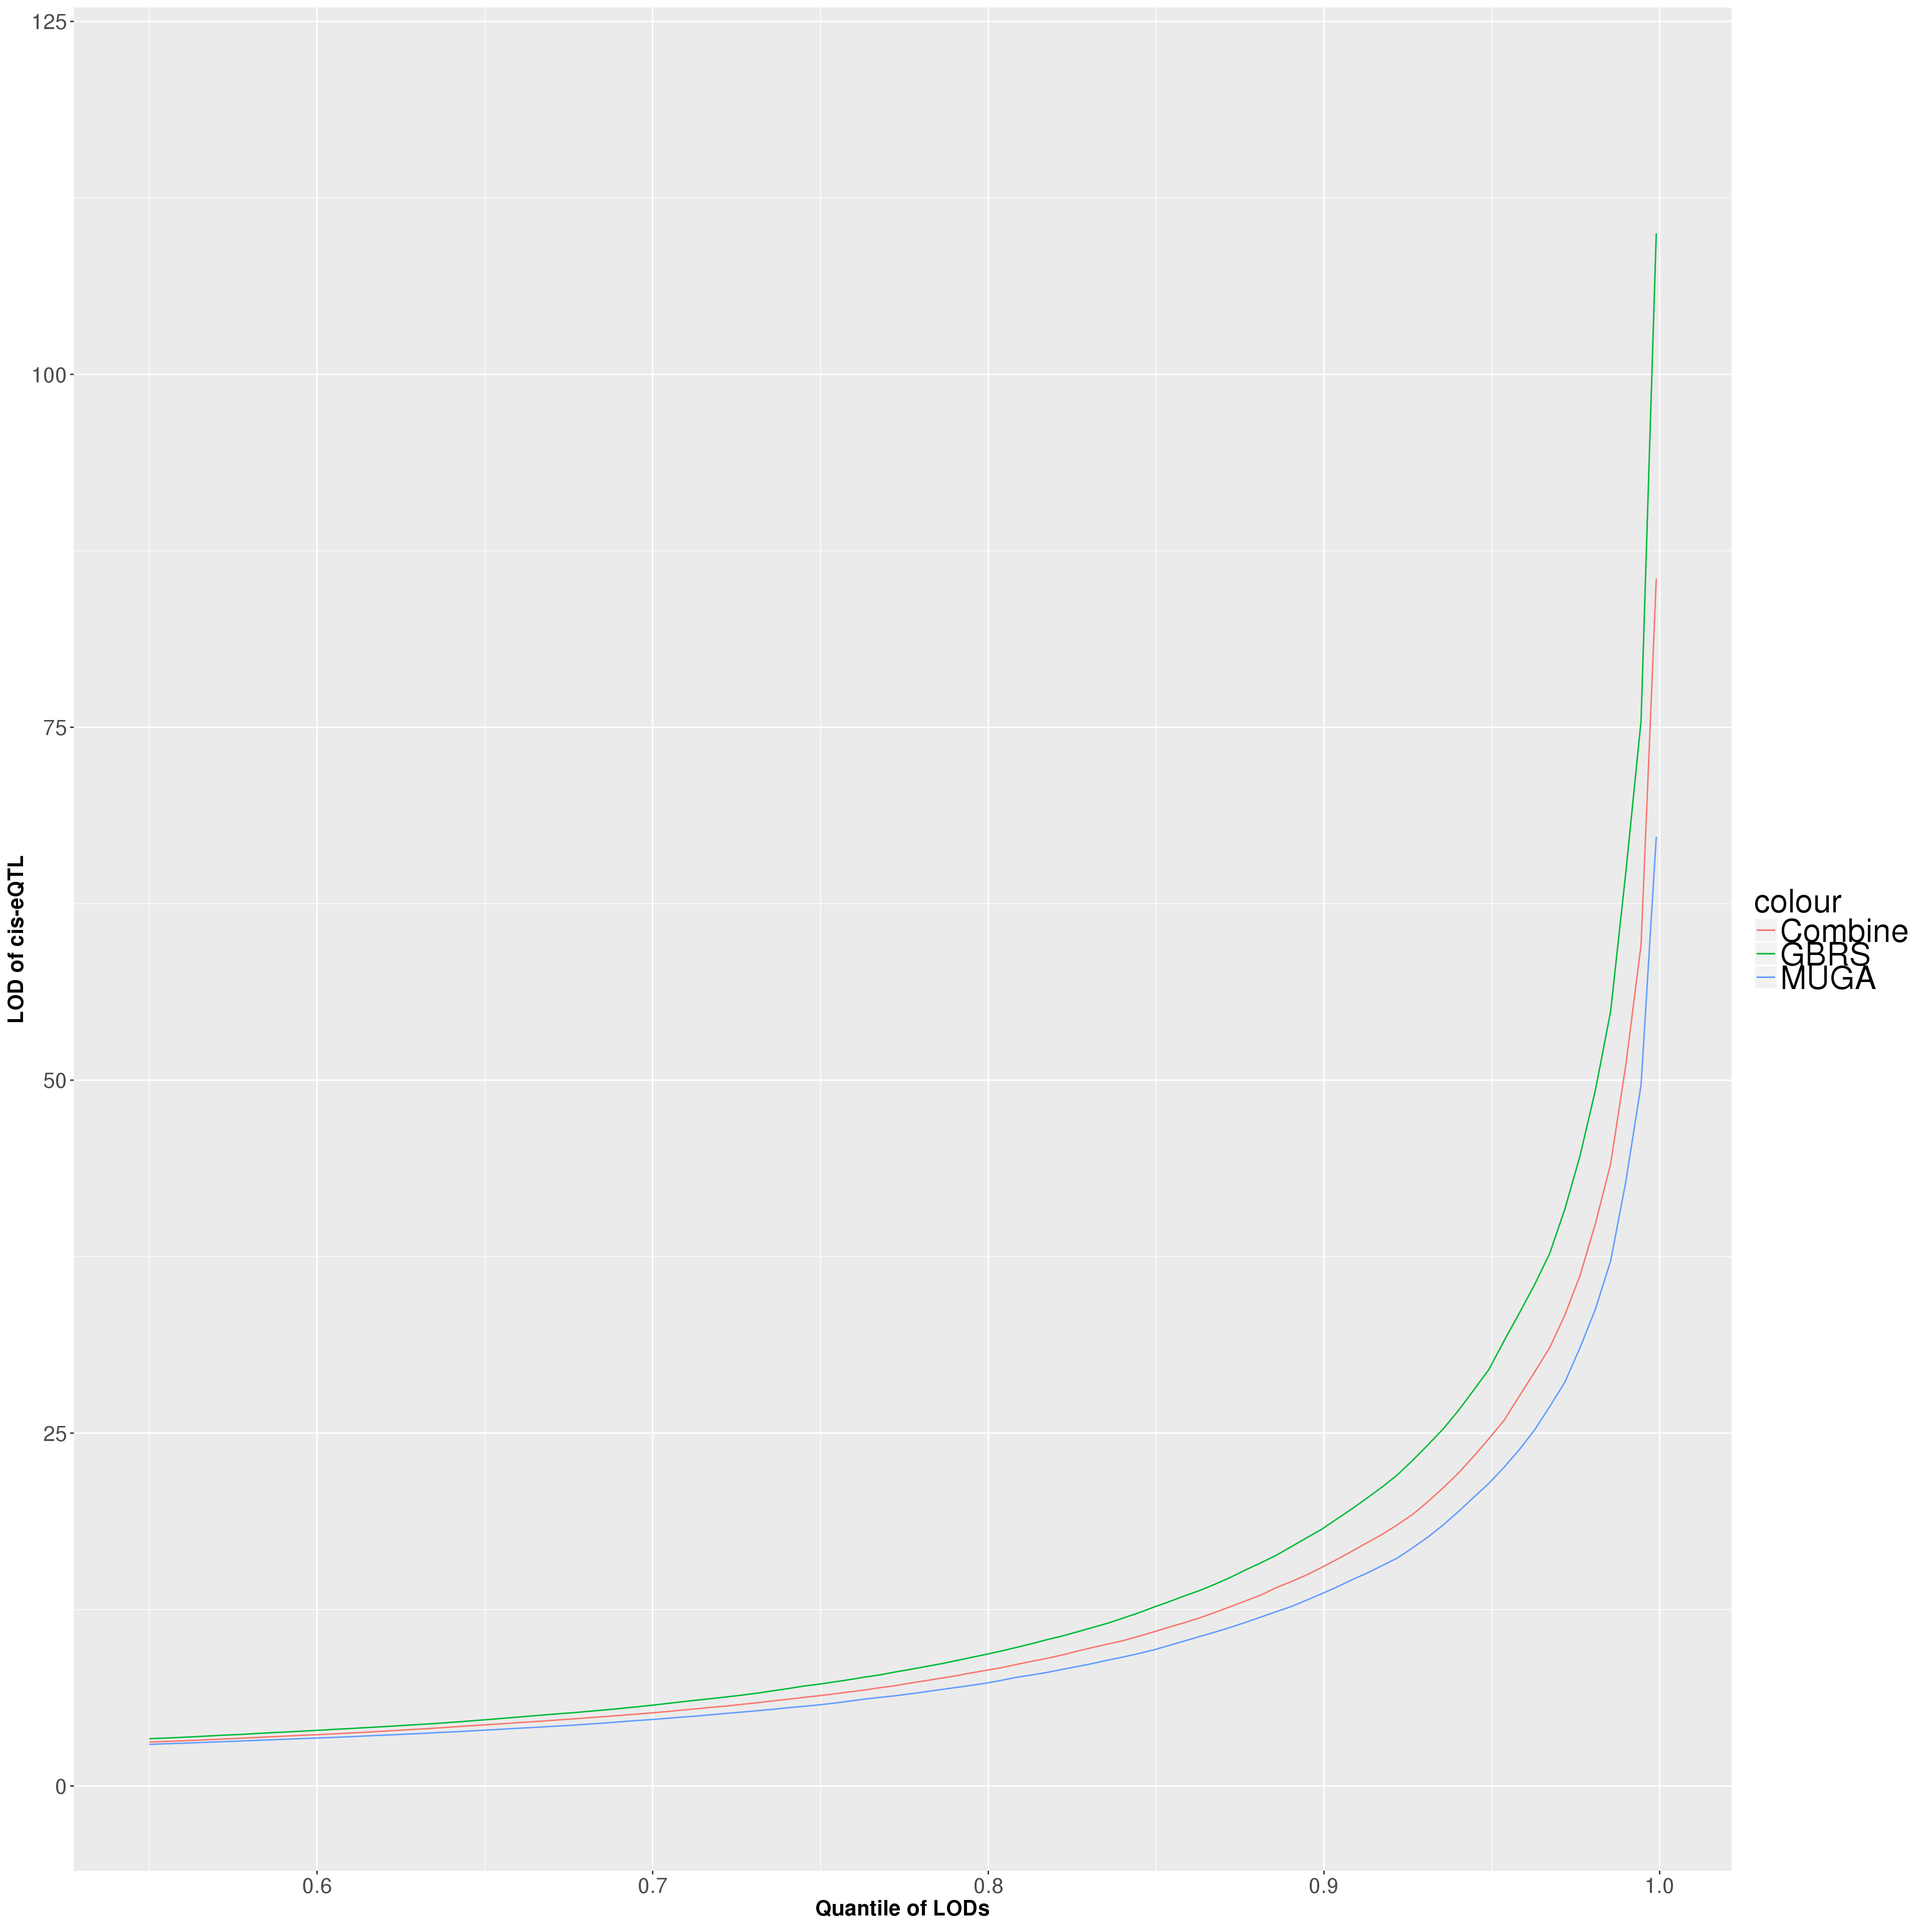
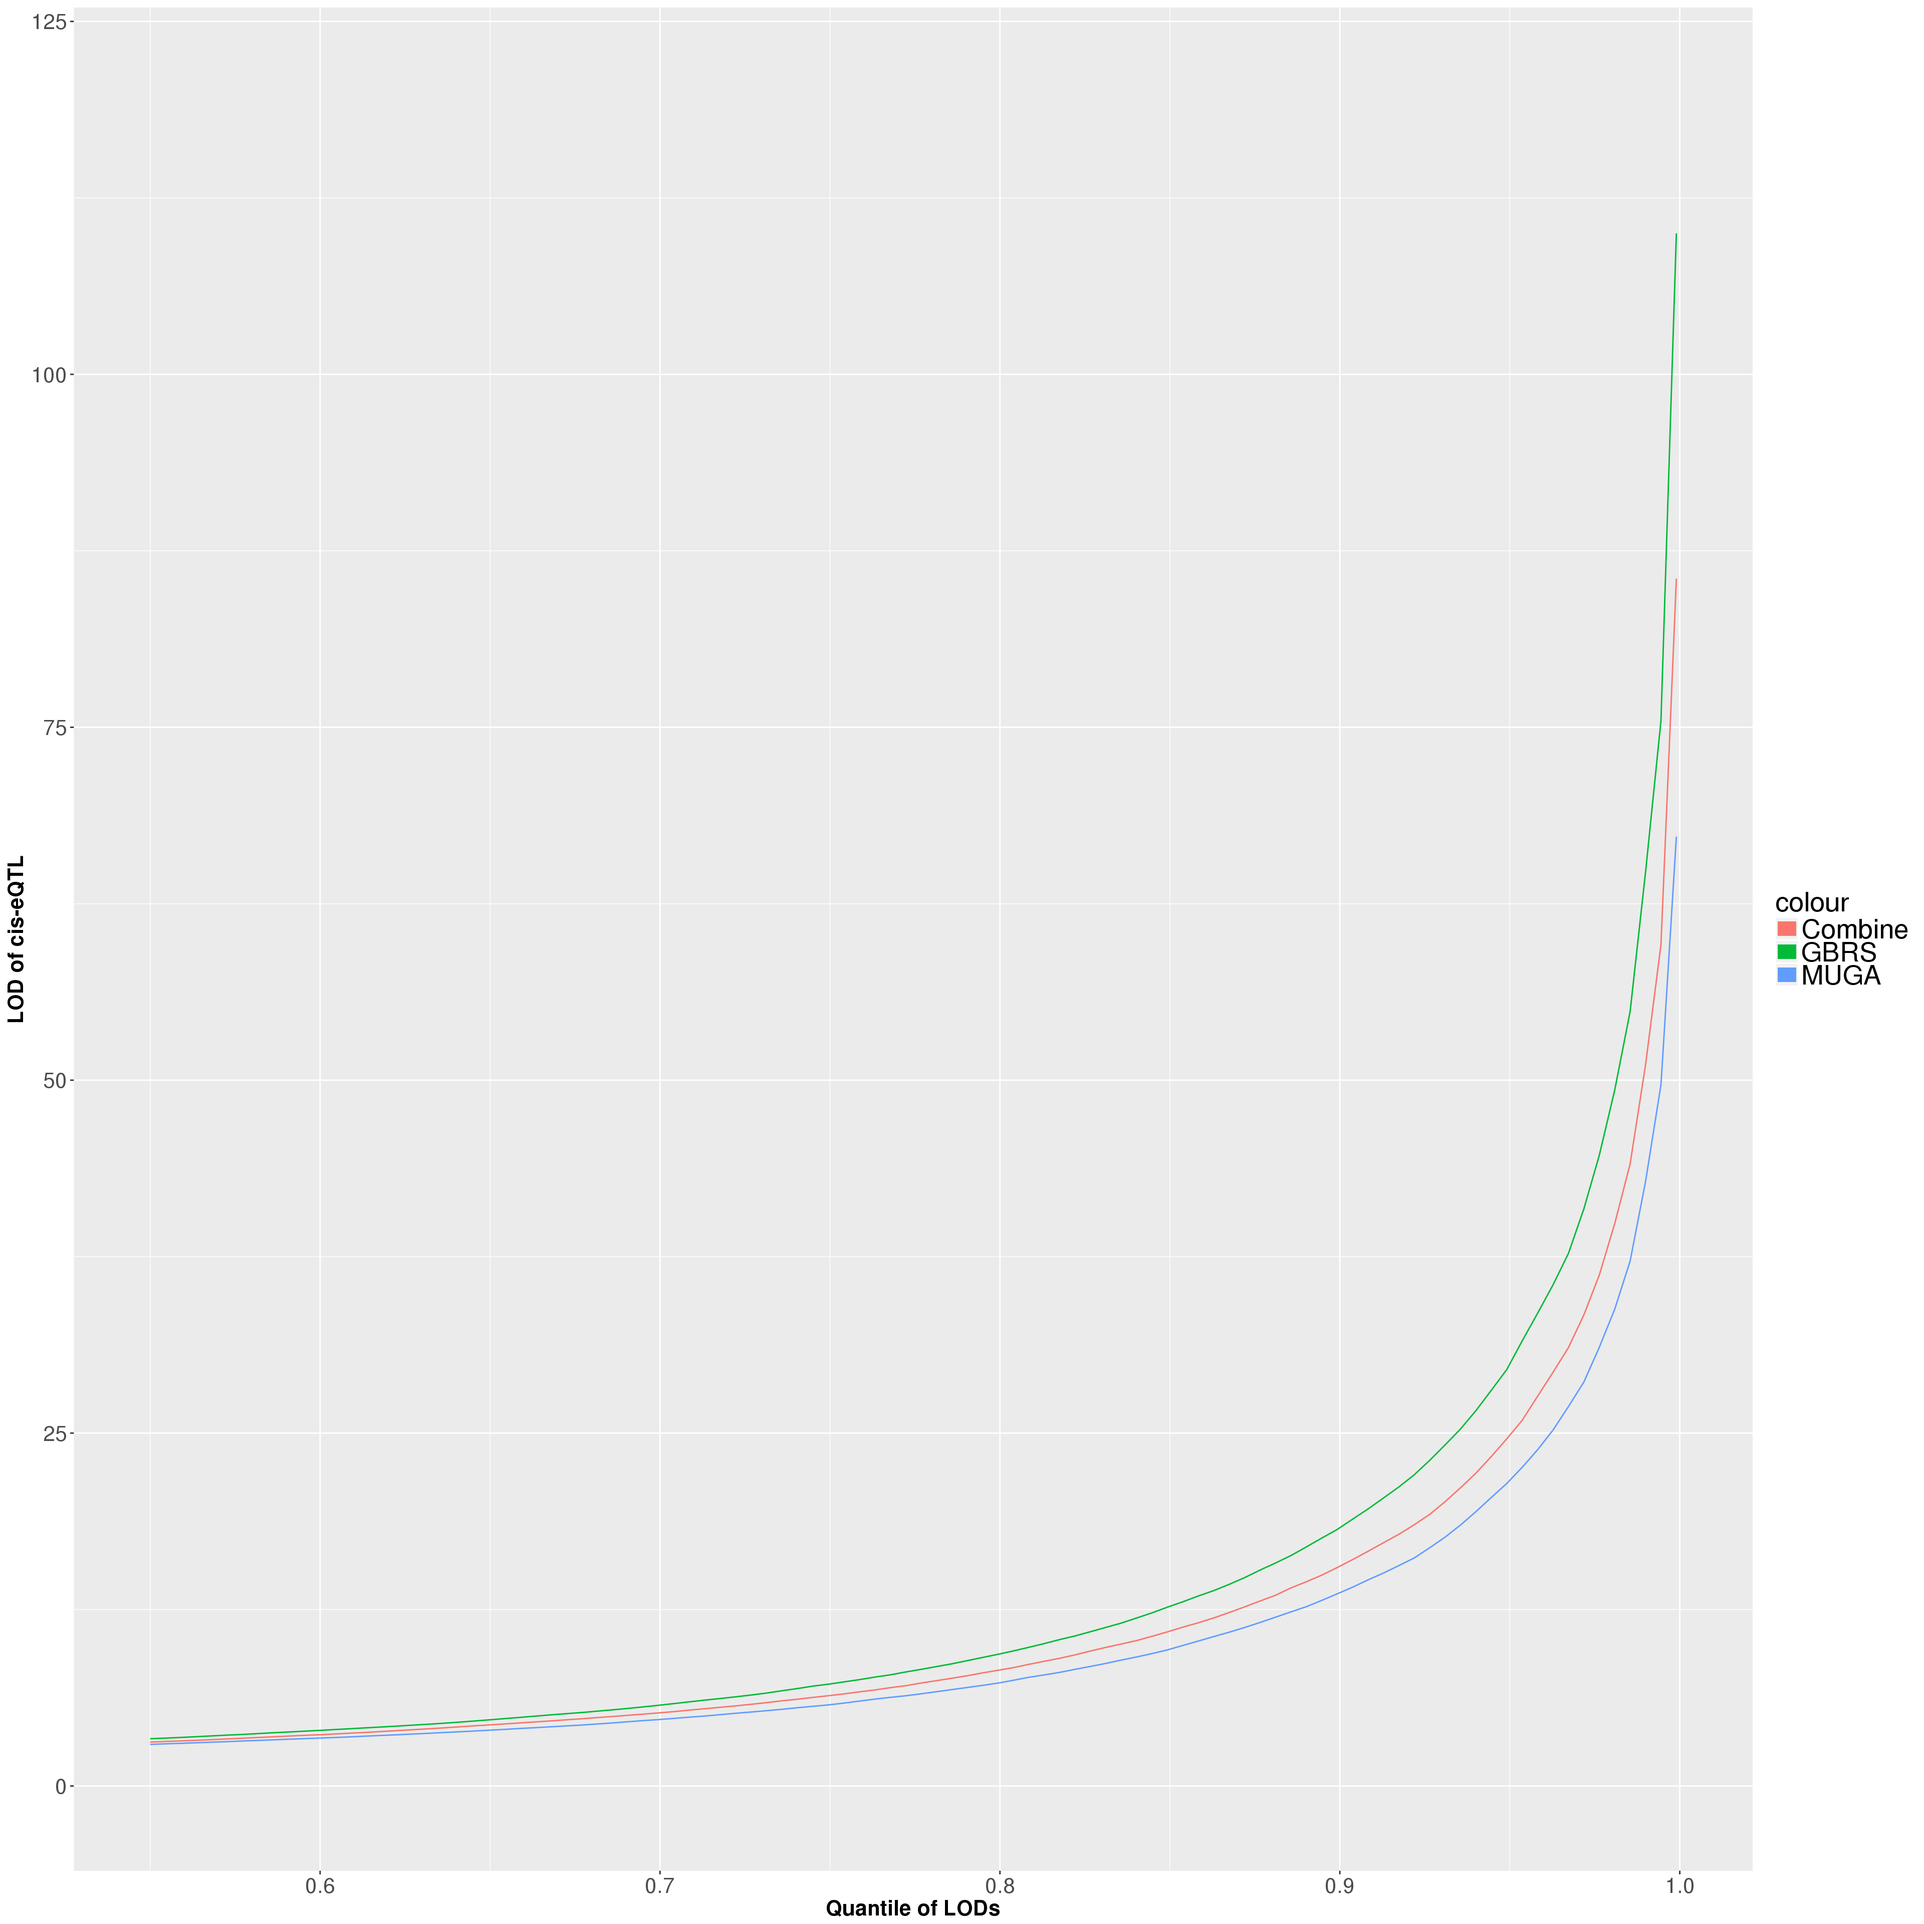
Build site.

diff --git a/docs/Cis-eQTL.html b/docs/Cis-eQTL.html
@@ -342,7 +342,7 @@ div.section {
 </details>
 </li>
 <li>
-<p><details> <summary> <strong style="color:blue;">✔</strong> <strong>Repository version:</strong> <a href="https://github.com/xhyuo/Workflowr_GBRS_array/tree/3b86fac8c914ae22c00a15abd4f27bcd071012b1" target="_blank">3b86fac</a> </summary></p>
+<p><details> <summary> <strong style="color:blue;">✔</strong> <strong>Repository version:</strong> <a href="https://github.com/xhyuo/Workflowr_GBRS_array/tree/11d326d30a1edb64351e38498f29e881eb03c629" target="_blank">11d326d</a> </summary></p>
 Great! You are using Git for version control. Tracking code development and connecting the code version to the results is critical for reproducibility. The version displayed above was the version of the Git repository at the time these results were generated. <br><br> Note that you need to be careful to ensure that all relevant files for the analysis have been committed to Git prior to generating the results (you can use <code>wflow_publish</code> or <code>wflow_git_commit</code>). workflowr only checks the R Markdown file, but you know if there are other scripts or data files that it depends on. Below is the status of the Git repository when the results were generated:
 <pre><code>
 Ignored files:
@@ -385,6 +385,40 @@ Message
 </tr>
 </thead>
 <tbody>
+<tr>
+<td style="text-align:left;">
+Rmd
+</td>
+<td style="text-align:left;">
+<a href="https://github.com/xhyuo/Workflowr_GBRS_array/blob/11d326d30a1edb64351e38498f29e881eb03c629/analysis/Cis-eQTL.Rmd" target="_blank">11d326d</a>
+</td>
+<td style="text-align:left;">
+xhyuo
+</td>
+<td style="text-align:left;">
+2018-11-07
+</td>
+<td style="text-align:left;">
+update building
+</td>
+</tr>
+<tr>
+<td style="text-align:left;">
+html
+</td>
+<td style="text-align:left;">
+<a href="https://cdn.rawgit.com/xhyuo/Workflowr_GBRS_array/cff81384f5ae846ec1bef09234bf6f84ffb74baa/docs/Cis-eQTL.html" target="_blank">cff8138</a>
+</td>
+<td style="text-align:left;">
+xhyuo
+</td>
+<td style="text-align:left;">
+2018-11-07
+</td>
+<td style="text-align:left;">
+Build site.
+</td>
+</tr>
 <tr>
 <td style="text-align:left;">
 Rmd
@@ -519,8 +553,9 @@ for (sg in sigma){
     xlab(&quot;Quantile of LODs&quot;) +
     ylab(&quot;LOD of cis-eQTL&quot;) +
     scale_y_continuous(limits=c(0, 120)) +
-    theme(plot.title = element_text(hjust = 0.5), legend.title=element_text(size=24),legend.text=element_text(size=24)) +
-    theme(axis.text=element_text(size=16),axis.title=element_text(size=16,face=&quot;bold&quot;))
+    theme(plot.title = element_text(hjust = 0.5), legend.title=element_text(size=20),legend.text=element_text(size=20)) +
+    theme(axis.text=element_text(size=16),axis.title=element_text(size=16,face=&quot;bold&quot;)) +
+    guides(color = guide_legend(override.aes = list(size=5)))
   print(p[[sg]])
 }
 # [1] &quot;0.110&quot;</code></pre>
@@ -740,52 +775,10 @@ xhyuo
 <p></details></p>
 <pre class="r"><code>#pdf(&quot;Cis-eQTL between GBRS and MUGA.pdf&quot;, width=20)
 #plot between GBRS and MEGAMUGA
-grid.arrange(p[[1]],p[[2]],p[[3]],p[[4]],p[[5]], ncol=5,
-             top = textGrob(&quot;Cis-eQTL between GBRS and MUGA&quot;,
-                            gp=gpar(fontsize=20,font=3)))</code></pre>
-<p><img src="figure/Cis-eQTL.Rmd/Cis-eQTL%20between%20MUGA282%20and%20GBRS282-6.png" width="1920" style="display: block; margin: auto;" /></p>
-<details> <summary><em>Expand here to see past versions of Cis-eQTL between MUGA282 and GBRS282-6.png:</em></summary>
-<table style="border-collapse:separate; border-spacing:5px;">
-<thead>
-<tr>
-<th style="text-align:left;">
-Version
-</th>
-<th style="text-align:left;">
-Author
-</th>
-<th style="text-align:left;">
-Date
-</th>
-</tr>
-</thead>
-<tbody>
-<tr>
-<td style="text-align:left;">
-<a href="https://github.com/xhyuo/Workflowr_GBRS_array/blob/68ba02d4ac51541f4d88098cb1312b8452074164/docs/figure/Cis-eQTL.Rmd/Cis-eQTL between MUGA282 and GBRS282-6.png" target="_blank">68ba02d</a>
-</td>
-<td style="text-align:left;">
-xhyuo
-</td>
-<td style="text-align:left;">
-2018-11-07
-</td>
-</tr>
-<tr>
-<td style="text-align:left;">
-<a href="https://github.com/xhyuo/Workflowr_GBRS_array/blob/7ba11656b7324f9091573a12ba71c8218b05ed4e/docs/figure/Cis-eQTL.Rmd/Cis-eQTL between MUGA282 and GBRS282-6.png" target="_blank">7ba1165</a>
-</td>
-<td style="text-align:left;">
-xhyuo
-</td>
-<td style="text-align:left;">
-2018-11-07
-</td>
-</tr>
-</tbody>
-</table>
-<p></details></p>
-<pre class="r"><code>#dev.off()</code></pre>
+#grid.arrange(p[[1]],p[[2]],p[[3]],p[[4]],p[[5]], ncol=5,
+#              top = textGrob(&quot;Cis-eQTL between GBRS and MUGA&quot;,
+#                             gp=gpar(fontsize=20,font=3)))
+#dev.off()</code></pre>
 </div>
 <div id="cis-eqtl-between-megamuga200-and-gbrs200" class="section level1">
 <h1>Cis-eQTL between MEGAMUGA200 and GBRS200</h1>
@@ -832,7 +825,9 @@ for (sg in sigma){
   ylab(&quot;LOD of cis-eQTL&quot;) +
   scale_y_continuous(limits=c(0, 85)) +
   theme(plot.title = element_text(hjust = 0.5), legend.title=element_text(size=24),legend.text=element_text(size=24)) +
-  theme(axis.text=element_text(size=16),axis.title=element_text(size=16,face=&quot;bold&quot;))
+  theme(axis.text=element_text(size=16),axis.title=element_text(size=16,face=&quot;bold&quot;)) +
+  guides(color = guide_legend(override.aes = list(size=5)))
+
   print(p[[sg]])
 }
 # [1] &quot;0.110&quot;</code></pre>
@@ -1052,52 +1047,10 @@ xhyuo
 <p></details></p>
 <pre class="r"><code>#pdf(&quot;Cis-eQTL between GBRS and MEGAMUGA.pdf&quot;, width=20)
 #plot between GBRS and MEGAMUGA
-grid.arrange(p[[1]],p[[2]],p[[3]],p[[4]],p[[5]], ncol=5,
-             top = textGrob(&quot;Cis-eQTL between GBRS and MEGAMUGA&quot;,
-                            gp=gpar(fontsize=20,font=3)))</code></pre>
-<p><img src="figure/Cis-eQTL.Rmd/Cis-eQTL%20between%20MEGAMUGA200%20and%20GBRS200-6.png" width="1920" style="display: block; margin: auto;" /></p>
-<details> <summary><em>Expand here to see past versions of Cis-eQTL between MEGAMUGA200 and GBRS200-6.png:</em></summary>
-<table style="border-collapse:separate; border-spacing:5px;">
-<thead>
-<tr>
-<th style="text-align:left;">
-Version
-</th>
-<th style="text-align:left;">
-Author
-</th>
-<th style="text-align:left;">
-Date
-</th>
-</tr>
-</thead>
-<tbody>
-<tr>
-<td style="text-align:left;">
-<a href="https://github.com/xhyuo/Workflowr_GBRS_array/blob/68ba02d4ac51541f4d88098cb1312b8452074164/docs/figure/Cis-eQTL.Rmd/Cis-eQTL between MEGAMUGA200 and GBRS200-6.png" target="_blank">68ba02d</a>
-</td>
-<td style="text-align:left;">
-xhyuo
-</td>
-<td style="text-align:left;">
-2018-11-07
-</td>
-</tr>
-<tr>
-<td style="text-align:left;">
-<a href="https://github.com/xhyuo/Workflowr_GBRS_array/blob/7ba11656b7324f9091573a12ba71c8218b05ed4e/docs/figure/Cis-eQTL.Rmd/Cis-eQTL between MEGAMUGA200 and GBRS200-6.png" target="_blank">7ba1165</a>
-</td>
-<td style="text-align:left;">
-xhyuo
-</td>
-<td style="text-align:left;">
-2018-11-07
-</td>
-</tr>
-</tbody>
-</table>
-<p></details></p>
-<pre class="r"><code>#dev.off()</code></pre>
+# grid.arrange(p[[1]],p[[2]],p[[3]],p[[4]],p[[5]], ncol=5,
+#              top = textGrob(&quot;Cis-eQTL between GBRS and MEGAMUGA&quot;,
+#                             gp=gpar(fontsize=20,font=3)))
+#dev.off()</code></pre>
 </div>
 <div id="cis-eqtl-between-gigamuga369-and-gbrs369" class="section level1">
 <h1>Cis-eQTL between GIGAMUGA369 and GBRS369</h1>
@@ -1129,7 +1082,8 @@ p &lt;- ggplot(cislod.369.plot, aes(qgrid)) +
      ylab(&quot;LOD of cis-eQTL&quot;) +
      scale_y_continuous(limits=c(0, 160)) +
      theme(plot.title = element_text(hjust = 0.5), legend.title=element_text(size=20),legend.text=element_text(size=20)) +
-     theme(axis.text=element_text(size=16),axis.title=element_text(size=16,face=&quot;bold&quot;))
+     theme(axis.text=element_text(size=16),axis.title=element_text(size=16,face=&quot;bold&quot;)) +
+     guides(color = guide_legend(override.aes = list(size=5)))
 
 #pdf(&quot;Cis-eQTL between GBRS and GIGAMUGA.pdf&quot;, width=20)
 #plot between GBRS and MEGAMUGA
@@ -1151,6 +1105,17 @@ Date
 </tr>
 </thead>
 <tbody>
+<tr>
+<td style="text-align:left;">
+<a href="https://github.com/xhyuo/Workflowr_GBRS_array/blob/cff81384f5ae846ec1bef09234bf6f84ffb74baa/docs/figure/Cis-eQTL.Rmd/Cis-eQTL between GIGAMUGA369 and GBRS369-1.png" target="_blank">cff8138</a>
+</td>
+<td style="text-align:left;">
+xhyuo
+</td>
+<td style="text-align:left;">
+2018-11-07
+</td>
+</tr>
 <tr>
 <td style="text-align:left;">
 <a href="https://github.com/xhyuo/Workflowr_GBRS_array/blob/68ba02d4ac51541f4d88098cb1312b8452074164/docs/figure/Cis-eQTL.Rmd/Cis-eQTL between GIGAMUGA369 and GBRS369-1.png" target="_blank">68ba02d</a>

diff --git a/docs/license.html b/docs/license.html
@@ -225,7 +225,7 @@ div.section {
 </details>
 </li>
 <li>
-<p><details> <summary> <strong style="color:blue;">✔</strong> <strong>Repository version:</strong> <a href="https://github.com/xhyuo/Workflowr_GBRS_array/tree/3b86fac8c914ae22c00a15abd4f27bcd071012b1" target="_blank">3b86fac</a> </summary></p>
+<p><details> <summary> <strong style="color:blue;">✔</strong> <strong>Repository version:</strong> <a href="https://github.com/xhyuo/Workflowr_GBRS_array/tree/11d326d30a1edb64351e38498f29e881eb03c629" target="_blank">11d326d</a> </summary></p>
 Great! You are using Git for version control. Tracking code development and connecting the code version to the results is critical for reproducibility. The version displayed above was the version of the Git repository at the time these results were generated. <br><br> Note that you need to be careful to ensure that all relevant files for the analysis have been committed to Git prior to generating the results (you can use <code>wflow_publish</code> or <code>wflow_git_commit</code>). workflowr only checks the R Markdown file, but you know if there are other scripts or data files that it depends on. Below is the status of the Git repository when the results were generated:
 <pre><code>
 Ignored files:
@@ -268,6 +268,23 @@ Message
 </tr>
 </thead>
 <tbody>
+<tr>
+<td style="text-align:left;">
+html
+</td>
+<td style="text-align:left;">
+<a href="https://cdn.rawgit.com/xhyuo/Workflowr_GBRS_array/cff81384f5ae846ec1bef09234bf6f84ffb74baa/docs/license.html" target="_blank">cff8138</a>
+</td>
+<td style="text-align:left;">
+xhyuo
+</td>
+<td style="text-align:left;">
+2018-11-07
+</td>
+<td style="text-align:left;">
+Build site.
+</td>
+</tr>
 <tr>
 <td style="text-align:left;">
 html

diff --git a/docs/index.html b/docs/index.html
@@ -225,7 +225,7 @@ div.section {
 </details>
 </li>
 <li>
-<p><details> <summary> <strong style="color:blue;">✔</strong> <strong>Repository version:</strong> <a href="https://github.com/xhyuo/Workflowr_GBRS_array/tree/3b86fac8c914ae22c00a15abd4f27bcd071012b1" target="_blank">3b86fac</a> </summary></p>
+<p><details> <summary> <strong style="color:blue;">✔</strong> <strong>Repository version:</strong> <a href="https://github.com/xhyuo/Workflowr_GBRS_array/tree/11d326d30a1edb64351e38498f29e881eb03c629" target="_blank">11d326d</a> </summary></p>
 Great! You are using Git for version control. Tracking code development and connecting the code version to the results is critical for reproducibility. The version displayed above was the version of the Git repository at the time these results were generated. <br><br> Note that you need to be careful to ensure that all relevant files for the analysis have been committed to Git prior to generating the results (you can use <code>wflow_publish</code> or <code>wflow_git_commit</code>). workflowr only checks the R Markdown file, but you know if there are other scripts or data files that it depends on. Below is the status of the Git repository when the results were generated:
 <pre><code>
 Ignored files:
@@ -268,6 +268,23 @@ Message
 </tr>
 </thead>
 <tbody>
+<tr>
+<td style="text-align:left;">
+html
+</td>
+<td style="text-align:left;">
+<a href="https://cdn.rawgit.com/xhyuo/Workflowr_GBRS_array/cff81384f5ae846ec1bef09234bf6f84ffb74baa/docs/index.html" target="_blank">cff8138</a>
+</td>
+<td style="text-align:left;">
+xhyuo
+</td>
+<td style="text-align:left;">
+2018-11-07
+</td>
+<td style="text-align:left;">
+Build site.
+</td>
+</tr>
 <tr>
 <td style="text-align:left;">
 html
